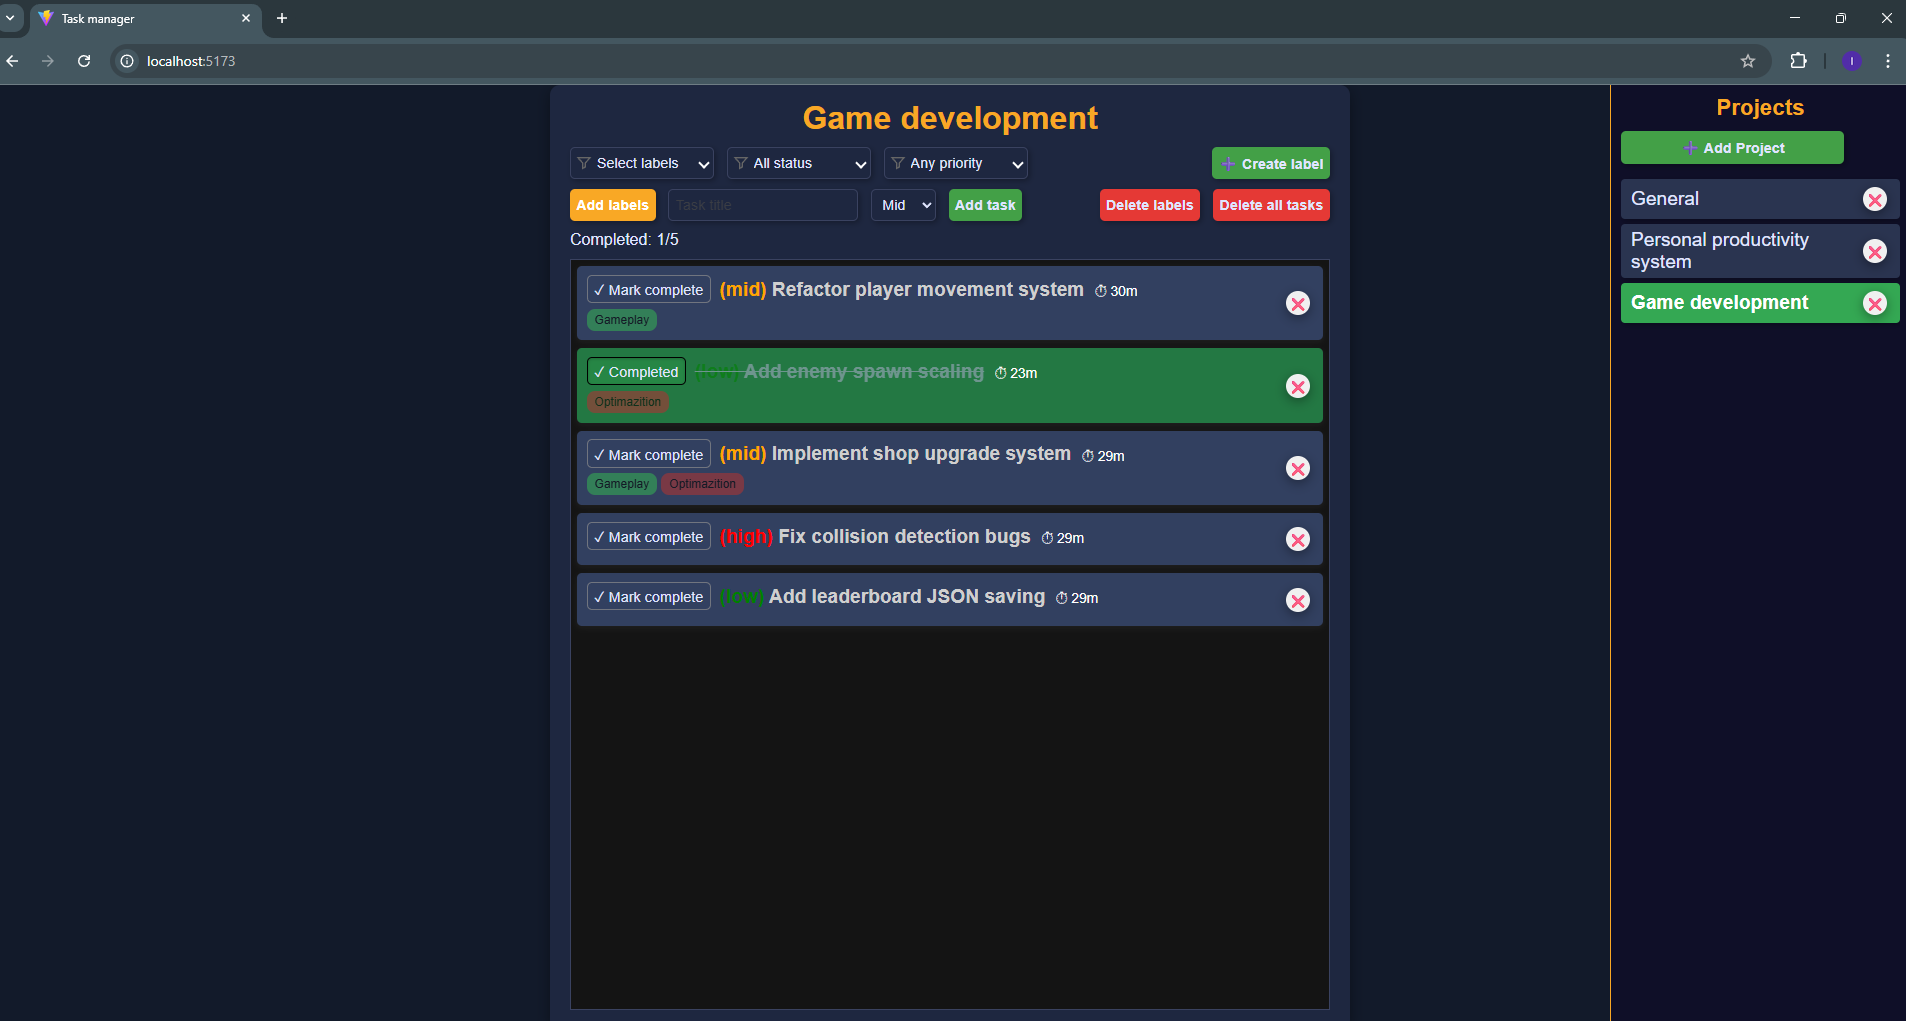
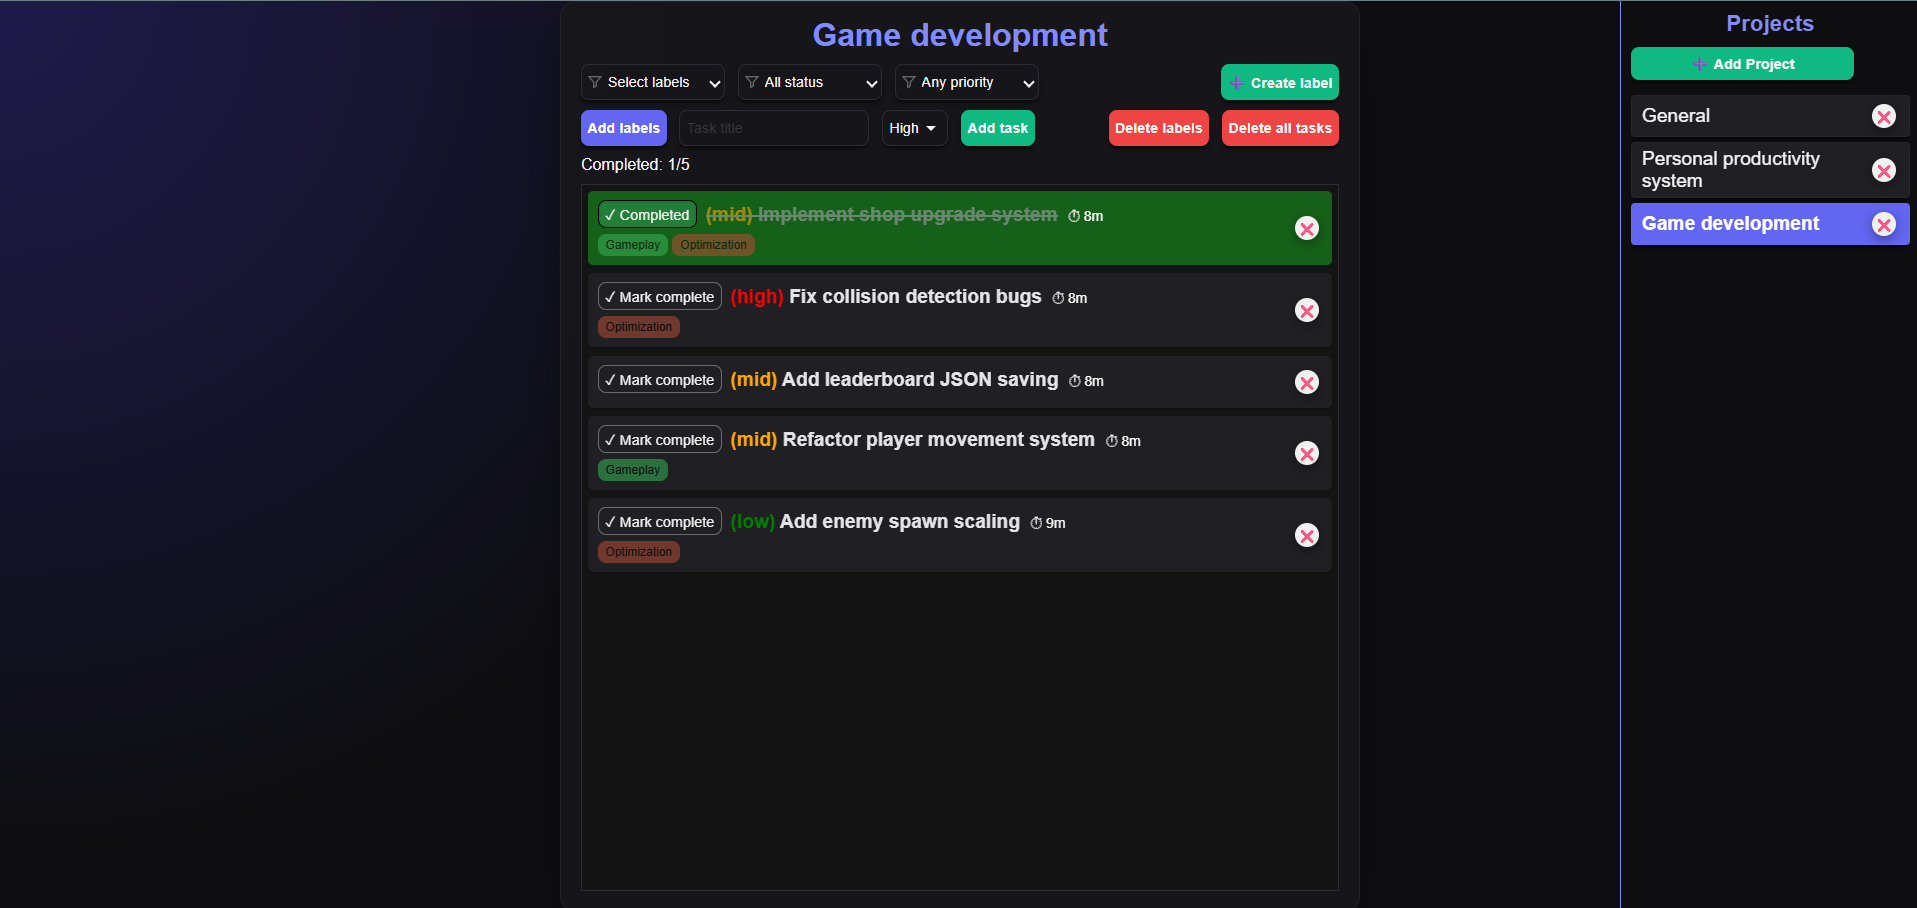
feat: enhance task edit UX and update documentation
- Update README.md with feature-specific screenshots (labels, filters, mobile view)
- Implement Focus Mode: dim inactive tasks when editing using CSS :has() selector
- Add "pop-out" scale effect and enhanced shadow for the active editing task
- Add Escape key listener to cancel task editing
- Add default border to all task items for better visual separation
- Enhance visibility of input fields during task editing

diff --git a/frontend/src/styles/task.css b/frontend/src/styles/task.css
@@ -1,4 +1,3 @@
-
 /* ===== Task container ===== */
 .task-list-container {
   flex: 1 1 auto;
@@ -13,10 +12,14 @@
   -webkit-overflow-scrolling: touch;
 }
 
+.task-list-container:has(.task-item.active) .task-item:not(.active) {
+  opacity: 0.5 !important;
+}
+
 
 
 /* ===== Task elem ===== */
-.task-item > * {
+.task-item>* {
   position: relative;
   z-index: 1;
 }
@@ -37,14 +40,16 @@
   margin-bottom: 8px;
   border-radius: 5px;
   background-color: var(--color-task-bg);
+  border: 1px solid var(--color-panel-border);
 
   box-shadow: var(--shadow-task-light);
   transition:
     box-shadow 0.18s ease,
     transform 0.12s ease,
     border-color 0.15s ease,
+    background-color 0.15s ease,
     opacity 0.3s ease;
-  
+
   animation: slideIn 0.3s ease-out forwards;
 }
 
@@ -53,6 +58,7 @@
     opacity: 0;
     transform: translateY(-10px) scale(0.98);
   }
+
   to {
     opacity: 1;
     transform: translateY(0) scale(1);
@@ -73,6 +79,7 @@
     padding-top: clamp(0.4rem, 1vw, 0.6rem);
     padding-bottom: clamp(0.4rem, 1vw, 0.6rem);
   }
+
   40% {
     opacity: 0;
     transform: scale(0.8);
@@ -81,6 +88,7 @@
     padding-top: clamp(0.4rem, 1vw, 0.6rem);
     padding-bottom: clamp(0.4rem, 1vw, 0.6rem);
   }
+
   100% {
     opacity: 0;
     transform: scale(0.8);
@@ -92,9 +100,18 @@
   }
 }
 
-.task-item:is(:hover, .active) {
-  filter: brightness(0.9); 
+.task-item:hover {
+  filter: brightness(0.9);
   box-shadow: var(--shadow-task-hover);
+}
+
+.task-item.active {
+  background-color: #2a2a35;
+  border: 1px solid rgba(99, 102, 241, 0.8);
+  box-shadow: 0 0 20px rgba(99, 102, 241, 0.4);
+  filter: none;
+  transform: scale(1.01) !important;
+  z-index: 10;
 }
 
 
@@ -148,8 +165,13 @@
 .edit-top-row,
 .edit-bottom-row {
   display: flex;
-  gap: 10px;              
+  gap: 10px;
   align-items: center;
+}
+
+.edit-top-row input,
+.edit-top-row select {
+  border: 1px solid rgba(255, 255, 255, 0.15);
 }
 
 .task-edit-buttons {
@@ -179,34 +201,34 @@
 }
 
 .mark-btn:hover {
-  background-color: rgba(72, 200, 100, 0.7); 
-  box-shadow: 0 2px 6px rgba(0, 0, 0, 0.15); 
+  background-color: rgba(72, 200, 100, 0.7);
+  box-shadow: 0 2px 6px rgba(0, 0, 0, 0.15);
 }
 
 .mark-btn.completed {
-  background-color: rgba(40, 140, 70, 0.7); 
-  box-shadow: 0 1px 3px rgba(0, 0, 0, 0.2) inset; 
+  background-color: rgba(40, 140, 70, 0.7);
+  box-shadow: 0 1px 3px rgba(0, 0, 0, 0.2) inset;
   border: 1px solid black;
 }
 
 /* ===== Done overlay ===== */
 .task-item {
-  position: relative; 
+  position: relative;
 }
 
 .task-item::before {
   content: "";
   position: absolute;
-  inset: 0; 
-  background-color: rgba(16, 185, 129, 0); 
-  pointer-events: none; 
-  border-radius: inherit; 
-  z-index: 0; 
+  inset: 0;
+  background-color: rgba(16, 185, 129, 0);
+  pointer-events: none;
+  border-radius: inherit;
+  z-index: 0;
   transition: background-color 0.3s ease;
 }
 
 .task-item.done-overlay::before {
-  background-color: rgba(0, 250, 0, 0.3); 
+  background-color: rgba(0, 250, 0, 0.3);
 }
 
 
@@ -223,12 +245,3 @@
 .task-list-container::-webkit-scrollbar-track {
   background: var(--color-bg);
 }
-
-
-
-
-
-
-
-
-

diff --git a/frontend/src/components/Task.jsx b/frontend/src/components/Task.jsx
@@ -36,6 +36,19 @@ const Task = forwardRef(({
     setIsEditing(false);
   });
 
+  useEffect(() => {
+    if (!isEditing) return;
+    const handleKeyDown = (e) => {
+      if (e.key === "Escape") {
+        setEditedTitle(task.title);
+        setEditedPriority(task.priority);
+        setIsEditing(false);
+      }
+    };
+    window.addEventListener("keydown", handleKeyDown);
+    return () => window.removeEventListener("keydown", handleKeyDown);
+  }, [isEditing, task.title, task.priority]);
+
 
   // ===== Handle timer =====
   useEffect(() => {

diff --git a/frontend/src/styles/general.css b/frontend/src/styles/general.css
@@ -150,6 +150,11 @@ select:focus, input:focus, .select-wrapper.open {
   box-shadow: var(--shadow-focus);
 }
 
+option {
+  background-color: var(--color-dropdown-bg);
+  color: var(--color-text);
+}
+
 input::placeholder {
   opacity: 0.7;
   color: rgb(70, 70, 70)

diff --git a/README.md b/README.md
@@ -16,25 +16,35 @@ This project is a **Task Manager** application built using React and modern Java
 - **Project management**
   - Create and delete multiple projects.
   - Select an active project.
+  
+  ![Projects](assets/projects.png)
 
 - **Labels**
   - Each new project has unique labels.
   - Add labels to tasks.
   - Delete labels individually or remove all labels from a project.
+  
+  ![Labels](assets/labels.png)
 
 - **Task management**
   - Add new tasks to projects.
   - Edit, delete, and update task status (done / in progress).
   - Track time spent on tasks and automatically save it in **localStorage**.
+  
+  ![Task Edit](assets/edit_task.png)
 
 - **Filtering and sorting**
   - Filter tasks by status, labels, and priority (**high**, **medium**, **low**).
   - Display task list based on the current filters.
+  
+  ![Filters](assets/filters.png)
 
 - **User interface and state persistence**
   - Responsive design for mobile and desktop views.
   - Modal components, dropdowns, and label panels for easier usability.
   - Projects and tasks are saved in **localStorage**, so data persists after page refresh.
+  
+  ![Mobile View](assets/phone.png)
 
 
 